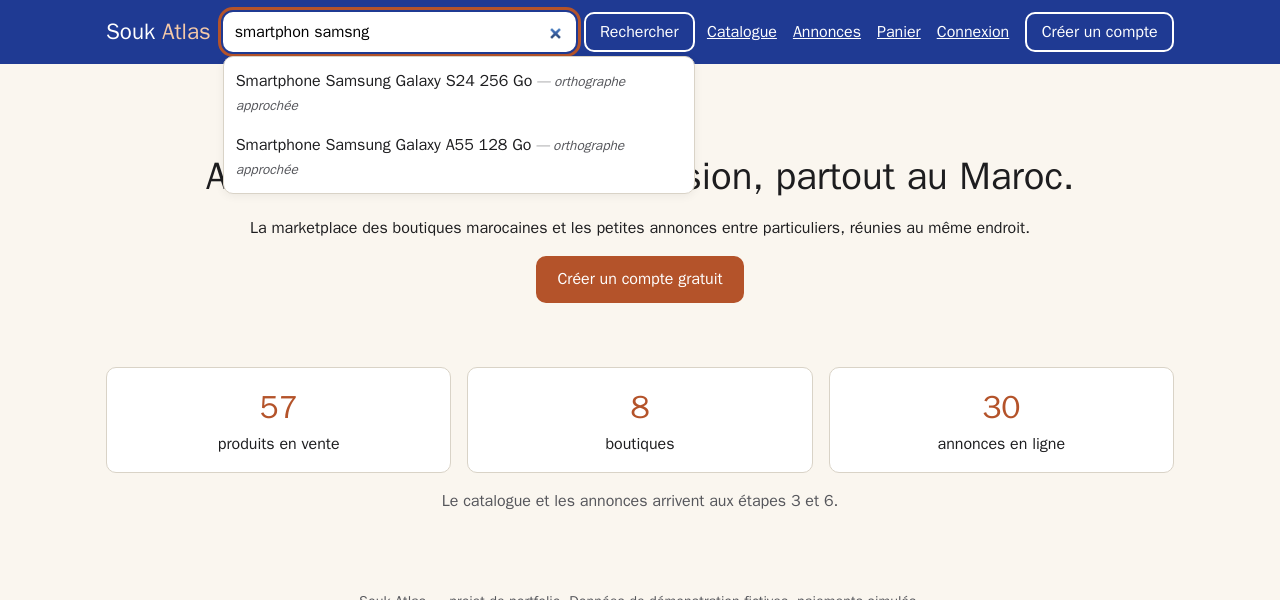
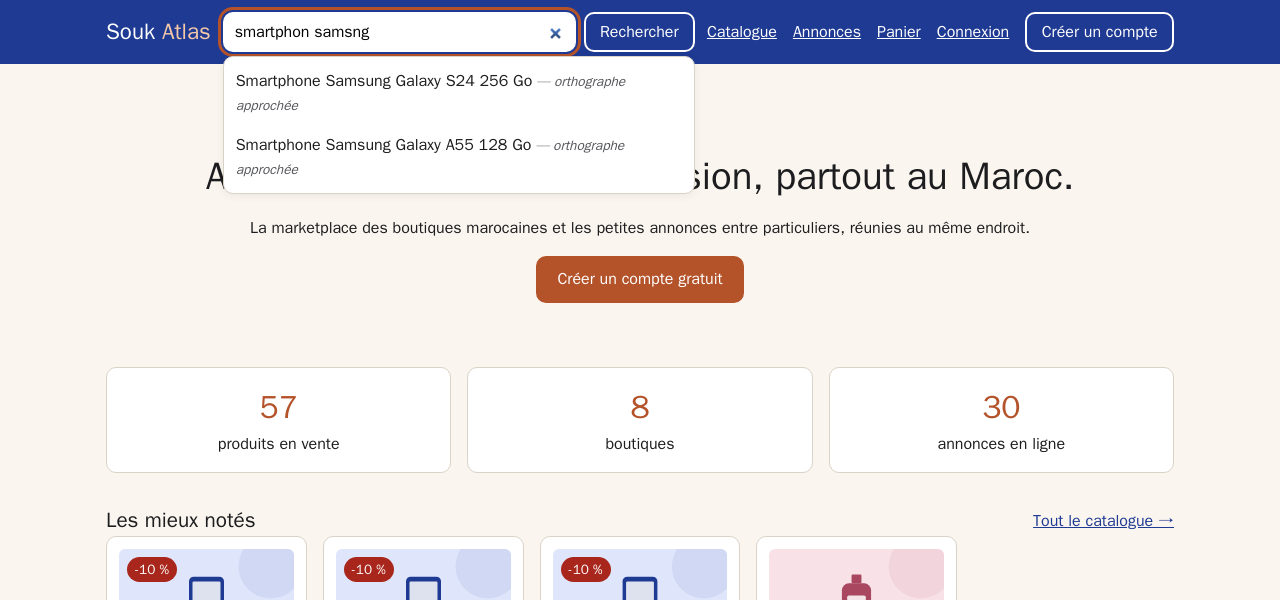
test: accueil, réseau Docker détecté, scénario de signalement non détecté par le moteur

Changed region(s): [[0.0938, 0.84, 0.75, 1.0], [0.3438, 0.81, 0.6562, 0.84], [0.8125, 0.84, 0.9062, 0.9]]

diff --git a/tests/navigateur/accueil.spec.js b/tests/navigateur/accueil.spec.js
@@ -1,0 +1,37 @@
+// =============================================================================
+// Page d'accueil (étape 11) : vitrine des produits et des annonces.
+// =============================================================================
+import { test, expect } from '@playwright/test';
+
+const CAPTURES = '../../docs/captures';
+
+test.beforeEach(async ({ page }) => {
+    const erreurs = [];
+    page.on('pageerror', (erreur) => erreurs.push(erreur.message));
+    page.on('console', (message) => { if (message.type() === 'error') erreurs.push(message.text()); });
+    test.info().erreursConsole = erreurs;
+});
+test.afterEach(async () => {
+    expect(test.info().erreursConsole, 'erreurs dans la console du navigateur').toEqual([]);
+});
+
+test('vitrine : 4 produits bien notés et 4 annonces récentes, liens vers les listes', async ({ page }) => {
+    await page.goto('/');
+    const produits = page.getByRole('region', { name: 'Les mieux notés' });
+    const annonces = page.getByRole('region', { name: 'Dernières annonces d\'occasion' });
+    await expect(produits.locator('.carte-produit')).toHaveCount(4);
+    await expect(annonces.locator('.carte-produit')).toHaveCount(4);
+    await expect(produits.locator('.carte-produit__stock').first()).not.toHaveText(/Épuisé/);
+    await expect(page.getByText(/étapes? \d/)).toHaveCount(0);   // plus de texte de chantier
+    await annonces.getByRole('link', { name: 'Toutes les annonces →' }).click();
+    await expect(page).toHaveURL(/\/annonces$/);
+});
+
+test('captures d’écran de l’accueil pour le README', async ({ page }) => {
+    await page.setViewportSize({ width: 1280, height: 900 });
+    await page.goto('/');
+    await page.screenshot({ path: `${CAPTURES}/accueil.png` });
+    await page.setViewportSize({ width: 390, height: 844 });
+    await page.goto('/');
+    await page.screenshot({ path: `${CAPTURES}/accueil-mobile.png` });
+});

diff --git a/tests/navigateur/admin.spec.js b/tests/navigateur/admin.spec.js
@@ -28,9 +28,10 @@ test('signalement traité de bout en bout par l’interface', async ({ browser }
     await auteur.goto('/annonces/nouvelle');
     await auteur.getByLabel('Titre').fill(titre);
     await auteur.getByLabel('Catégorie').selectOption({ label: '— TV, audio & consoles' });
-    await auteur.getByLabel('Prix (MAD)').fill('300');
+    // Annonce d'apparence normale : le moteur C++ la laisse passer, des utilisateurs la signalent
+    await auteur.getByLabel('Prix (MAD)').fill('1500');
     await auteur.getByLabel('Ville').fill('Casablanca');
-    await auteur.getByLabel('Description').fill('Paiement uniquement par virement avant envoi.');
+    await auteur.getByLabel('Description').fill('Bon état, remise en main propre.');
     await auteur.getByRole('button', { name: 'Publier' }).click();
     await expect(auteur.getByText('Annonce publiée.')).toBeVisible();
     const urlAnnonce = '/annonce/' + auteur.url().split('/').pop();
